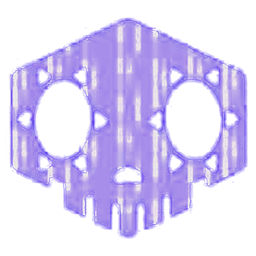
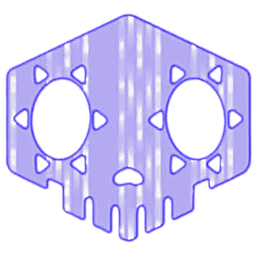
해킹 툴 이모지: 더 선명한 원본(1280×720)으로 다시 만들어 hacktool_v2로 새로 등록

diff --git a/handlers/게임/해킹툴.js b/handlers/게임/해킹툴.js
@@ -14,7 +14,7 @@ const { logSystem } = require('../공통/로그');
 const HACK_TOOL_NAME = '해킹 툴';
 // 이모지는 assets/이모지/hacktool.png 를 봇의 앱 이모지로 등록해 쓴다(봇이 켜질 때 ensureHackToolEmoji).
 // 등록 전이거나 실패하면 🛠 로 보인다. 그림을 바꾸면 EMOJI_NAME 을 바꿔 새로 등록되게 한다.
-const EMOJI_NAME = 'hacktool_v1';
+const EMOJI_NAME = 'hacktool_v2';
 const EMOJI_FILE = path.join(__dirname, '..', '..', 'assets', '이모지', 'hacktool.png');
 const FALLBACK_EMOJI = '🛠';
 let emojiId = null;

diff --git a/README.md b/README.md
@@ -139,7 +139,7 @@ Arcade_BOT/
 │  ├─ botmatch-xp.json        # 유저별 봇전 보상 XP 하루 누적량(KST 자정 초기화)
 │  └─ realm_roster.json       # 길드별 마크(렐름) 승인 명단·검토 대기 신청·명단 메시지 ID
 ├─ assets/                   # 임베드에 첨부하는 이미지 (마크 신청서 썸네일 mc_realm_thumbnail.webp)
-│  ├─ 이모지/hacktool.png     # 해킹 툴 앱 이모지 원본(봇 시작 때 hacktool_v1 로 등록, 실패하면 🛠)
+│  ├─ 이모지/hacktool.png     # 해킹 툴 앱 이모지 원본(봇 시작 때 hacktool_v2 로 등록, 실패하면 🛠)
 └─ env                       # 환경변수 파일 (gitignore, 아래 참고)
 ```
 
